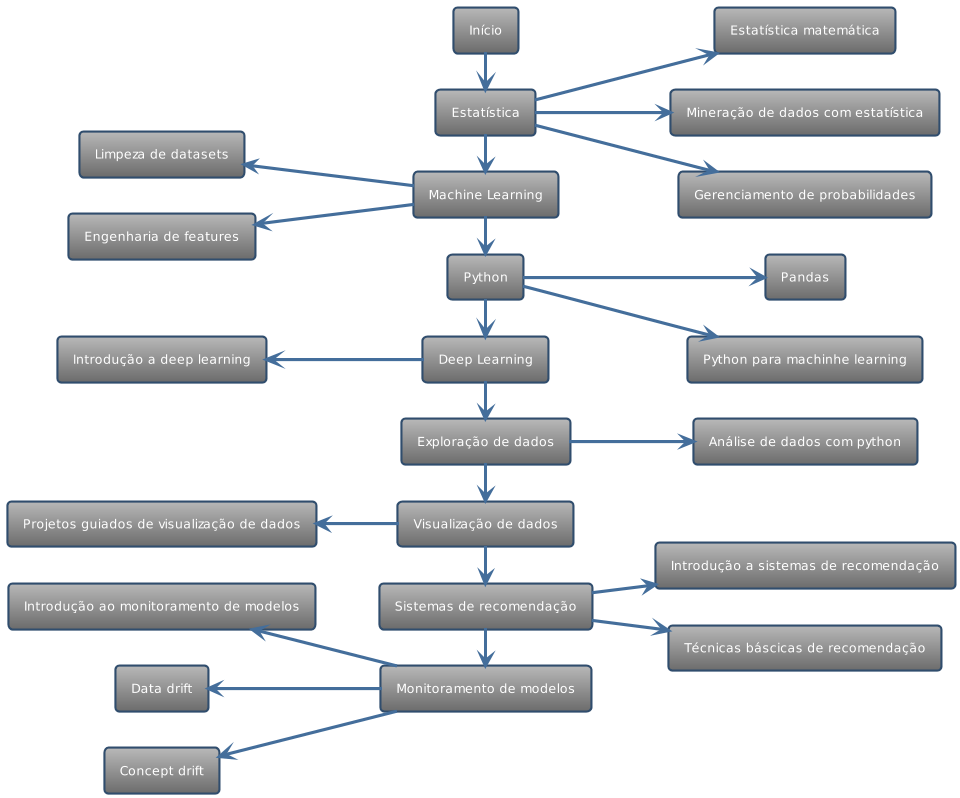
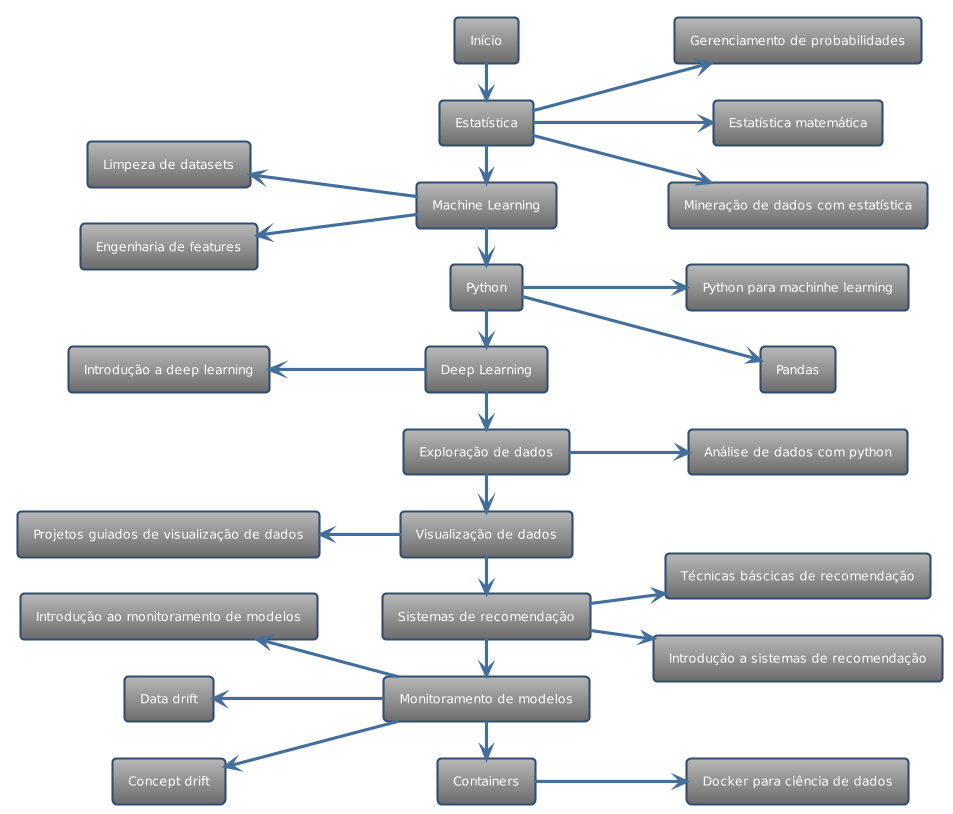
Adicionado docker para ciência de dados

diff --git a/src/data-science/trilha-texto.md b/src/data-science/trilha-texto.md
@@ -239,3 +239,8 @@
 
 ## Data storytelling com tableau
 - https://www.coursera.org/specializations/data-visualization
+
+# Containers
+
+## Docker para ciência de dados
+https://towardsdatascience.com/docker-for-data-science-7927fb3c70d3
